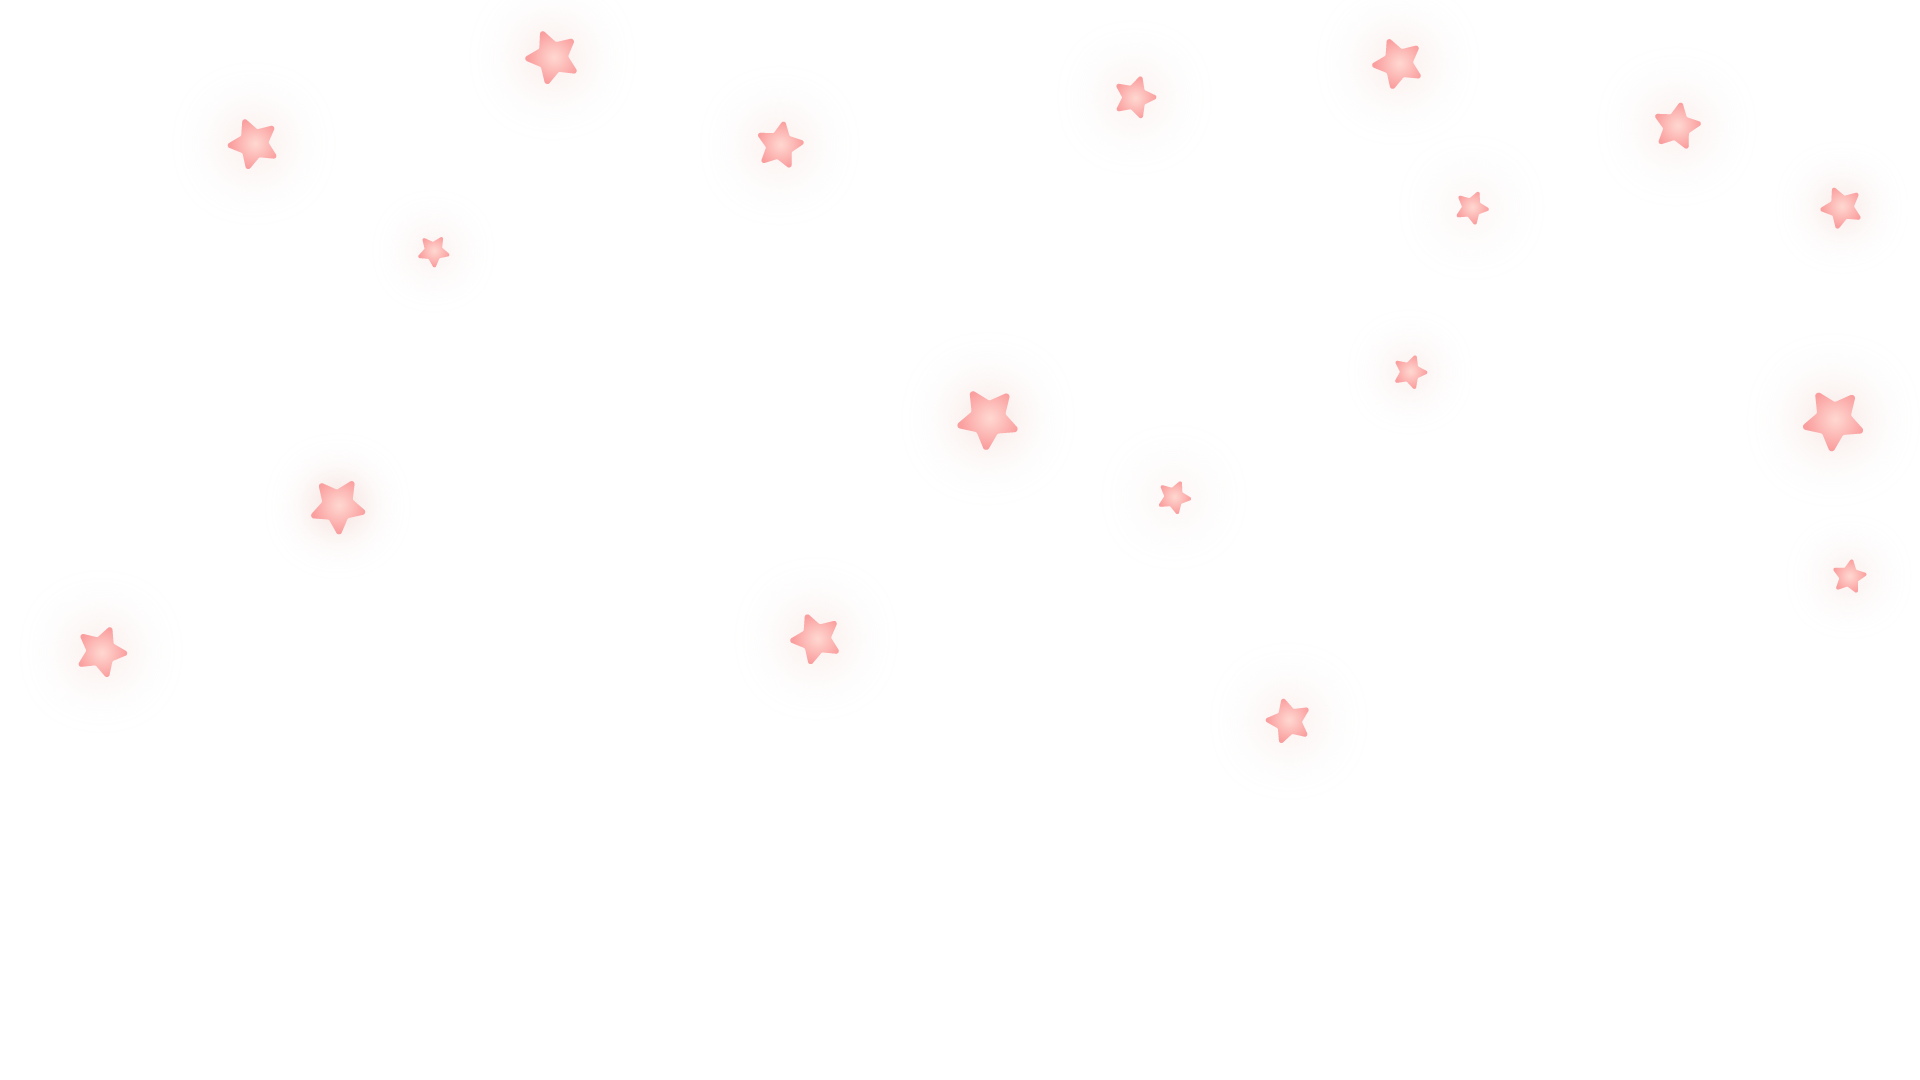
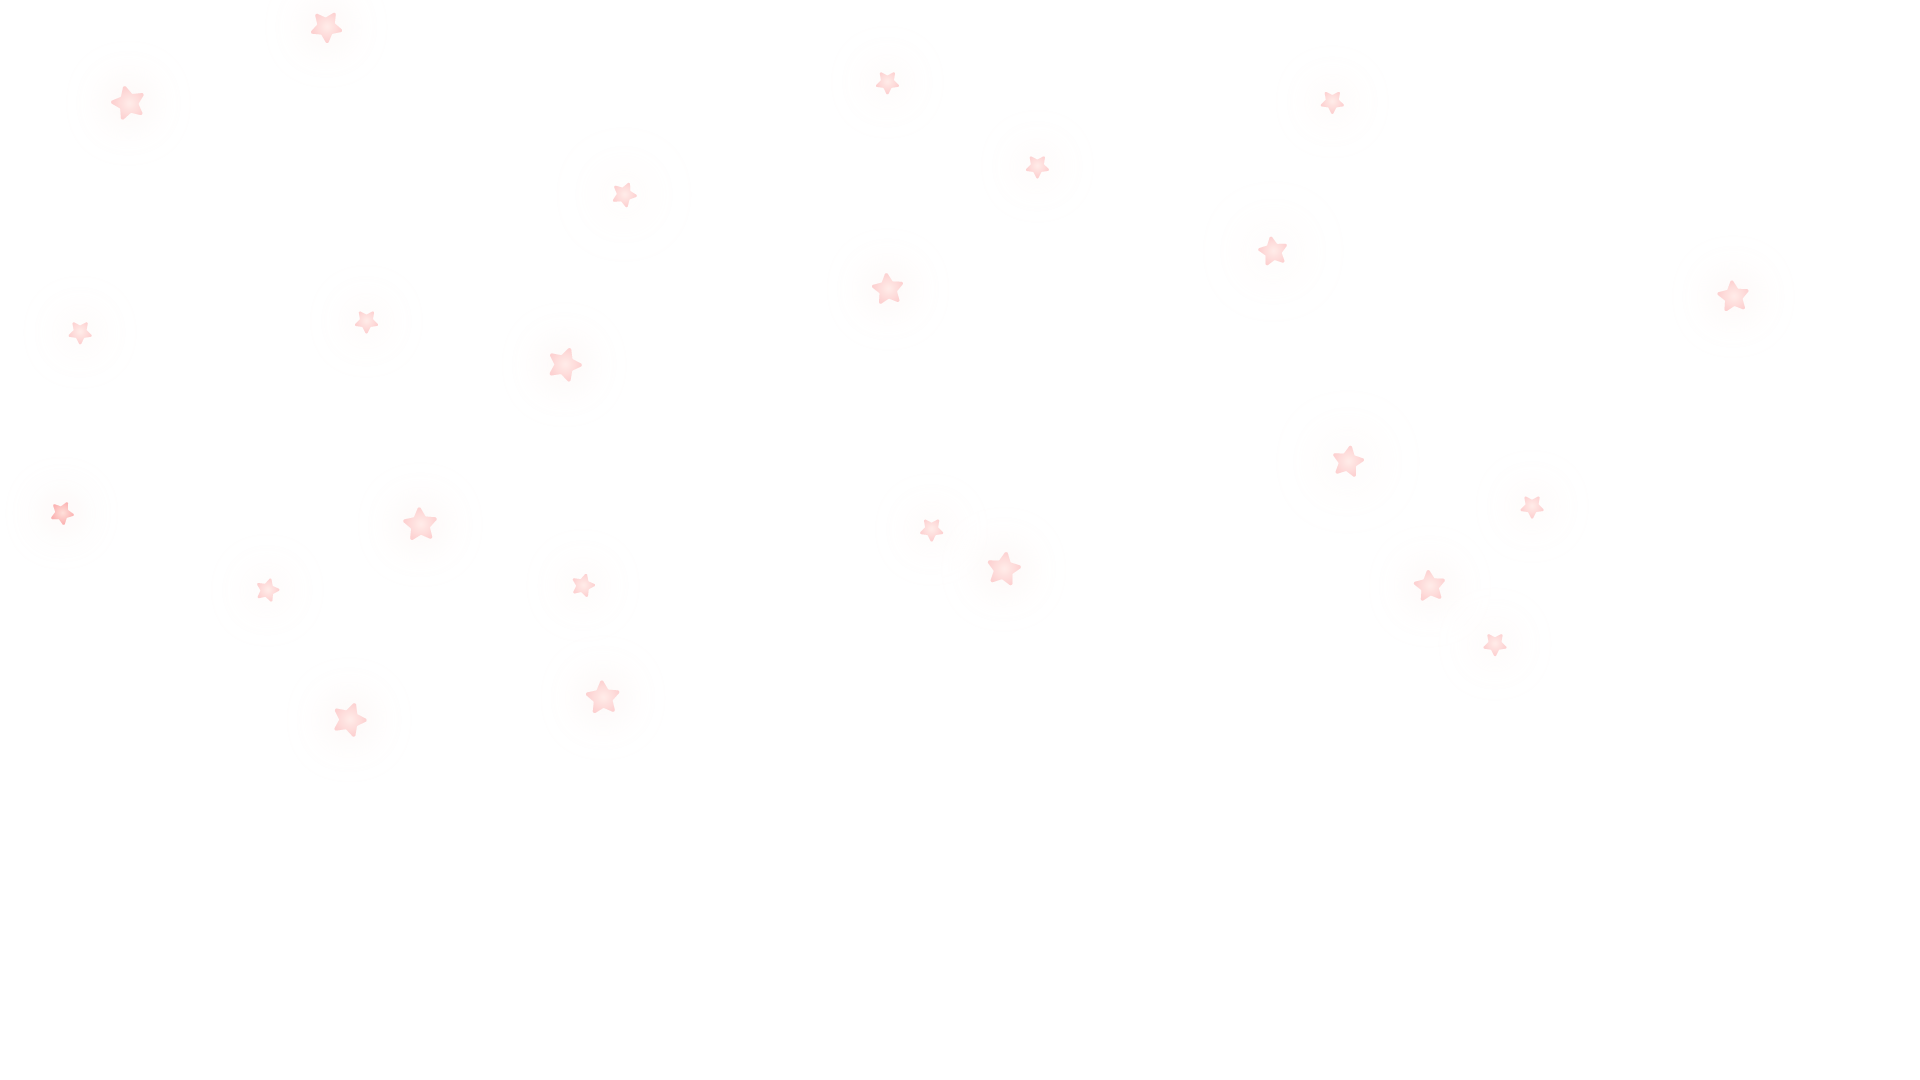
parallax

diff --git a/script.js b/script.js
@@ -1,9 +1,12 @@
-let imgFundo, imgGainha;
-let gainha, fundo;
-const VEL = 6;
+let imgGainha, imgCamadas;
+let gainha, camadas;
+const VEL = 0.8;
 
 function preload() {
-    imgFundo = loadImage("./assets/platformer_background_3.png");
+    imgCamadas = [];
+    for (let i = 1; i <= 9; i++) {
+        imgCamadas.unshift(loadImage("./assets/bg/layer0" + i + ".png"));
+    }
     imgGainha = [];
     for (let i = 1; i <= 4; i++) {
         let ibagem = loadImage("./assets/gainha/frame-" + i + ".png");
@@ -13,23 +16,19 @@ function preload() {
 
 function setup() {
     createCanvas(900, 506);
-    
-    fundo = [];
-    for (let i = 0; i < 3; i++) {
-        fundo.push(new Fundo(imgFundo, VEL, i * width ));
+    camadas = [];
+    for (let i = 0; i < imgCamadas.length; i++) {
+        let qtd = i == 0 ? 1 : 3;
+        let vel = i == 4 ? 0 : i * VEL;
+        camadas.push(new Camada(imgCamadas[i], vel, qtd));
     }
-
     gainha = new Gainha(imgGainha);
 }
 
 function draw() {
-    for (let i = fundo.length - 1; i >= 0; i--) {
-        fundo[i].show();
-        if (fundo[i].move()) {
-            let posX = fundo[fundo.length - 1].x + width;
-            fundo.push(new Fundo(imgFundo, VEL, posX));
-            fundo.shift();
-        }
+    background("hotpink");
+    for (let i = 0; i < camadas.length; i++) {
+        camadas[i].show();
     }
     gainha.show();
 }

diff --git a/camada.js b/camada.js
@@ -1,0 +1,20 @@
+class Camada {
+    constructor(ibagem, vel, qtd = 3) {
+        this.ibagem = ibagem;
+        this.vel = vel;
+        this.fundos = [];
+        for (let i = 0; i < qtd; i++) {
+            this.fundos.push(new Fundo(this.ibagem, this.vel, i * width));
+        }
+    }
+    show() {
+        for (let i = this.fundos.length - 1; i >= 0; i--) {
+            this.fundos[i].show();
+            if (this.fundos[i].move()) {
+                let posX = this.fundos[this.fundos.length - 1].x + width;
+                this.fundos.push(new Fundo(this.ibagem, this.vel, posX));
+                this.fundos.shift();
+            }
+        }
+    }
+}

diff --git a/index.html b/index.html
@@ -10,6 +10,7 @@
 
     <script src="gainha.js"></script>
     <script src="fundo.js"></script>
+    <script src="camada.js"></script>
 
     <link rel="stylesheet" href="style.css">
 </head>
